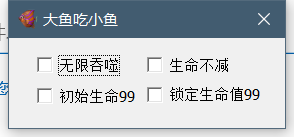
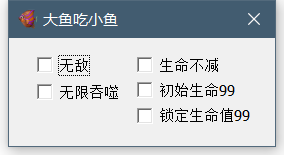
添加无敌

diff --git a/FeedingEx/FeedingExDlg.cpp b/FeedingEx/FeedingExDlg.cpp
@@ -84,6 +84,7 @@ BEGIN_MESSAGE_MAP(CFeedingExDlg, CDialogEx)
 	ON_BN_CLICKED(IDC_INIT_LEFT_99, &CFeedingExDlg::OnBnClickedInitLeft99)
 	ON_BN_CLICKED(IDC_LEFT_DECREASE, &CFeedingExDlg::OnBnClickedLeftDecrease)
 	ON_BN_CLICKED(IDC_LOCK_LEFT, &CFeedingExDlg::OnBnClickedLockLeft)
+	ON_BN_CLICKED(IDC_GOD, &CFeedingExDlg::OnBnClickedGod)
 END_MESSAGE_MAP()
 
 // CFeedingExDlg 消息处理程序
@@ -141,6 +142,45 @@ void CFeedingExDlg::OnPaint()
 HCURSOR CFeedingExDlg::OnQueryDragIcon()
 {
 	return static_cast<HCURSOR>(m_hIcon);
+}
+
+/*  无敌
+* [ENABLE]
+0040FABB:
+  db B0 00 C7 86 88 03 00 00 05 00 00 00
+0040C342:
+  db 05
+
+[DISABLE]
+0040FABB:
+  db B0 01 C7 86 88 03 00 00 00 00 00 00
+0040C342:
+  db 06
+*/
+void CFeedingExDlg::OnBnClickedGod()
+{
+	CButton* b = (CButton*)GetDlgItem(IDC_GOD);
+	DWORD nPid = GetProcessPid("feeding.exe");
+	if (nPid) {
+		HANDLE nHandle = OpenProcess(PROCESS_ALL_ACCESS, FALSE, nPid);
+		if (nHandle) {
+			BYTE origin1[] = { 0xB0,0x01,0xC7,0x86,0x88,0x03,0x00,0x00,0x00 };
+			BYTE origin2[] = { 0x06 };
+			if (b->GetCheck()) {
+				origin1[1] = 0x00;
+				origin1[8] = origin2[0] = 0x05;
+			}
+			DWORD baseAddress1 = 0x0040FABB;
+			DWORD baseAddress2 = 0x0040C342;
+			if (WriteProcessMemory(nHandle, (LPVOID)baseAddress1, origin1, sizeof(origin1), 0)
+				&& WriteProcessMemory(nHandle, (LPVOID)baseAddress2, origin2, sizeof(origin2), 0)) {
+				CloseHandle(nHandle);
+				return;
+			}
+			CloseHandle(nHandle);
+		}
+	}
+	b->SetCheck(FALSE);
 }
 
 /*  无限吞噬

diff --git a/FeedingEx/resource.h b/FeedingEx/resource.h
@@ -13,6 +13,8 @@
 #define ICD_SWALLOW                     1002
 #define IDC_LEFT_DECREASE               1003
 #define IDC_LOCK_LEFT                   1004
+#define IDC_CHECK1                      1007
+#define IDC_GOD                         1007
 
 // Next default values for new objects
 // 
@@ -20,7 +22,7 @@
 #ifndef APSTUDIO_READONLY_SYMBOLS
 #define _APS_NEXT_RESOURCE_VALUE        137
 #define _APS_NEXT_COMMAND_VALUE         32771
-#define _APS_NEXT_CONTROL_VALUE         1006
+#define _APS_NEXT_CONTROL_VALUE         1008
 #define _APS_NEXT_SYMED_VALUE           101
 #endif
 #endif

diff --git a/FeedingEx/FeedingExDlg.h b/FeedingEx/FeedingExDlg.h
@@ -36,4 +36,5 @@ public:
 	afx_msg void OnBnClickedInitLeft99();
 	afx_msg void OnBnClickedLeftDecrease();
 	afx_msg void OnBnClickedLockLeft();
+	afx_msg void OnBnClickedGod();
 };
